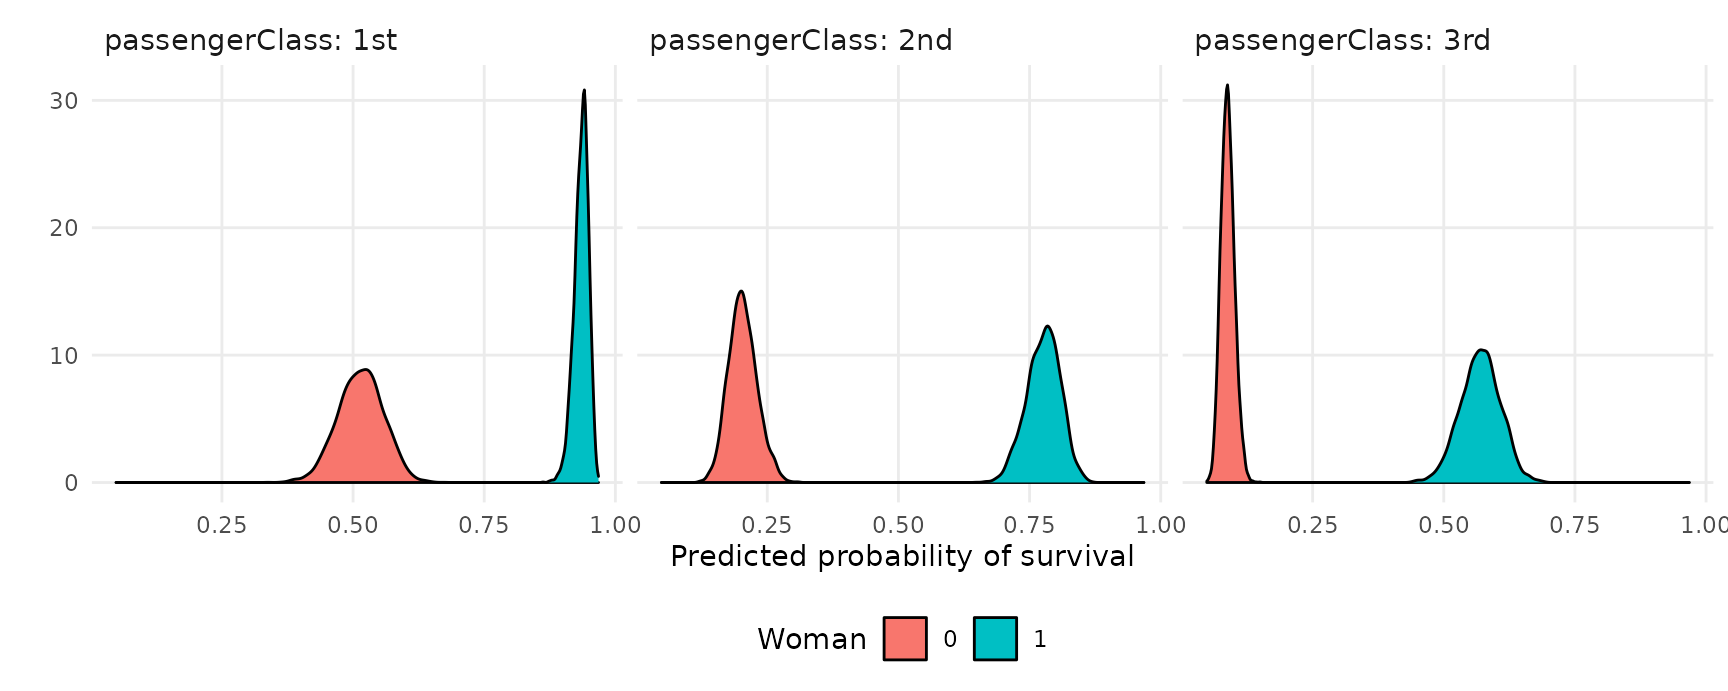
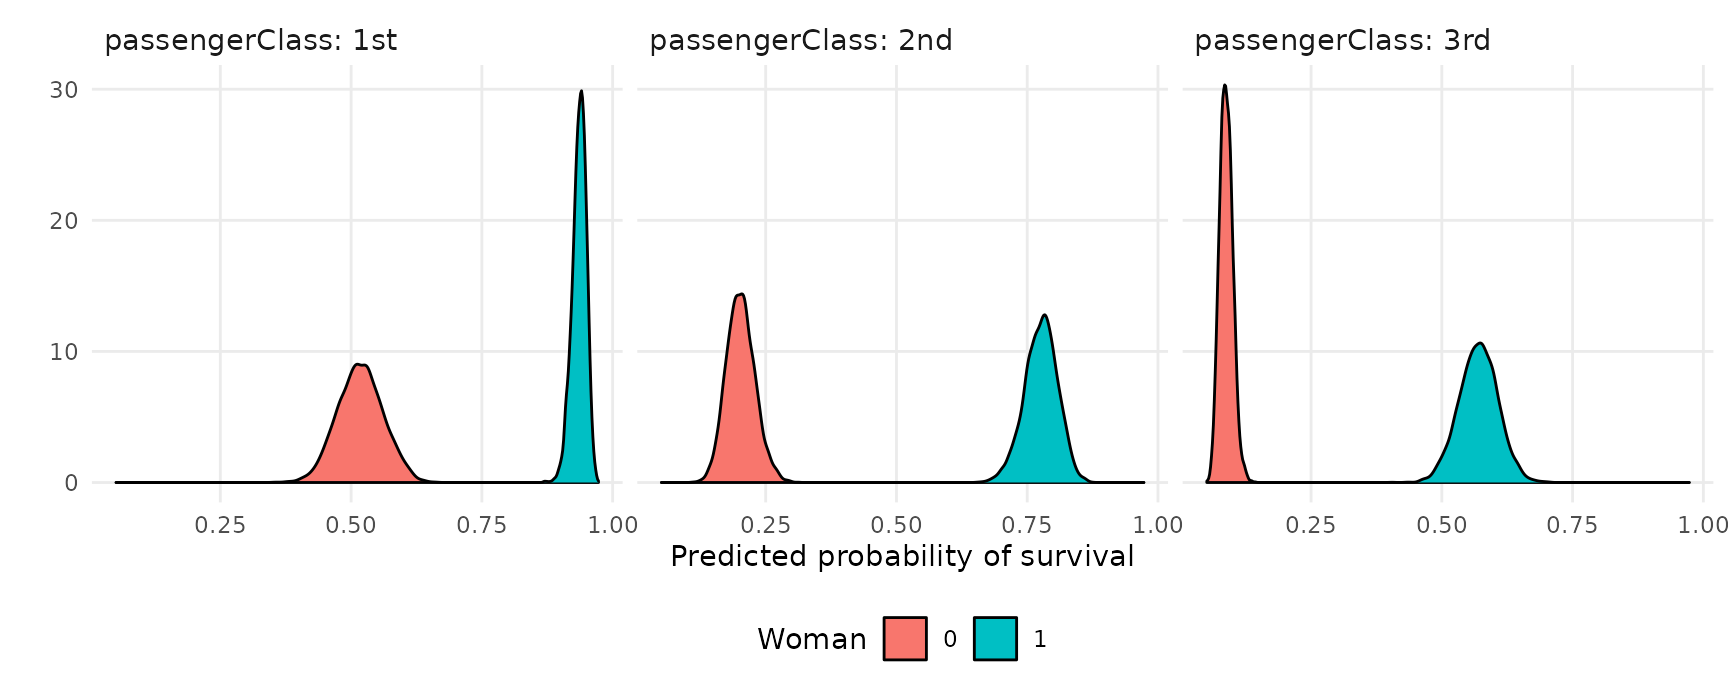
Built site for marginaleffects: 0.5.0.9000@774f5e7

diff --git a/articles/brms.html b/articles/brms.html
@@ -126,12 +126,12 @@
 <code class="sourceCode R"><span class="va">pred</span> <span class="op">&lt;-</span> <span class="fu"><a href="../reference/predictions.html">predictions</a></span><span class="op">(</span><span class="va">mod</span><span class="op">)</span>
 <span class="fu"><a href="https://rdrr.io/r/utils/head.html" class="external-link">head</a></span><span class="op">(</span><span class="va">pred</span><span class="op">)</span>
 <span class="co">#&gt;   rowid     type predicted  conf.low conf.high survived woman     age</span>
-<span class="co">#&gt; 1     1 response 0.9367472 0.9038666 0.9581670        1     1 29.0000</span>
-<span class="co">#&gt; 2     2 response 0.8482269 0.7384893 0.9185965        1     0  0.9167</span>
-<span class="co">#&gt; 3     3 response 0.9426790 0.8908972 0.9708225        0     1  2.0000</span>
-<span class="co">#&gt; 4     4 response 0.5135091 0.4273616 0.5943994        0     0 30.0000</span>
-<span class="co">#&gt; 5     5 response 0.9375434 0.9042560 0.9590230        0     1 25.0000</span>
-<span class="co">#&gt; 6     6 response 0.2730115 0.2010509 0.3538965        1     0 48.0000</span>
+<span class="co">#&gt; 1     1 response 0.9373636 0.9074305 0.9590451        1     1 29.0000</span>
+<span class="co">#&gt; 2     2 response 0.8513351 0.7440069 0.9195178        1     0  0.9167</span>
+<span class="co">#&gt; 3     3 response 0.9438323 0.8948214 0.9702921        0     1  2.0000</span>
+<span class="co">#&gt; 4     4 response 0.5157990 0.4325403 0.6014116        0     0 30.0000</span>
+<span class="co">#&gt; 5     5 response 0.9384555 0.9069748 0.9599175        0     1 25.0000</span>
+<span class="co">#&gt; 6     6 response 0.2738011 0.2029775 0.3545948        1     0 48.0000</span>
 <span class="co">#&gt;   passengerClass</span>
 <span class="co">#&gt; 1            1st</span>
 <span class="co">#&gt; 2            1st</span>
@@ -150,23 +150,23 @@
                                        passengerClass <span class="op">=</span> <span class="fu"><a href="https://rdrr.io/r/base/c.html" class="external-link">c</a></span><span class="op">(</span><span class="st">"1st"</span>, <span class="st">"2nd"</span>, <span class="st">"3rd"</span><span class="op">)</span><span class="op">)</span><span class="op">)</span>
 <span class="va">pred</span>
 <span class="co">#&gt;   rowid     type  predicted   conf.low conf.high      age woman passengerClass</span>
-<span class="co">#&gt; 1     1 response 0.51512667 0.42894659 0.5961970 29.88113     0            1st</span>
-<span class="co">#&gt; 2     2 response 0.20208884 0.15311957 0.2620328 29.88113     0            2nd</span>
-<span class="co">#&gt; 3     3 response 0.08771317 0.06486017 0.1156499 29.88113     0            3rd</span>
-<span class="co">#&gt; 4     4 response 0.93647218 0.90420838 0.9580905 29.88113     1            1st</span>
-<span class="co">#&gt; 5     5 response 0.77832513 0.71058663 0.8354429 29.88113     1            2nd</span>
-<span class="co">#&gt; 6     6 response 0.57018842 0.49315951 0.6408937 29.88113     1            3rd</span></code></pre></div>
+<span class="co">#&gt; 1     1 response 0.51750876 0.43421889 0.6030942 29.88113     0            1st</span>
+<span class="co">#&gt; 2     2 response 0.20130616 0.15160880 0.2591014 29.88113     0            2nd</span>
+<span class="co">#&gt; 3     3 response 0.08725871 0.06558882 0.1135204 29.88113     0            3rd</span>
+<span class="co">#&gt; 4     4 response 0.93715679 0.90723168 0.9589409 29.88113     1            1st</span>
+<span class="co">#&gt; 5     5 response 0.77755093 0.71128075 0.8341809 29.88113     1            2nd</span>
+<span class="co">#&gt; 6     6 response 0.57051109 0.49595149 0.6427941 29.88113     1            3rd</span></code></pre></div>
 <p>The <code>posteriordraws</code> function samples from the posterior distribution of the model, and produces a data frame with <code>drawid</code> and <code>draw</code> columns.</p>
 <div class="sourceCode" id="cb8"><pre class="downlit sourceCode r">
 <code class="sourceCode R"><span class="va">pred</span> <span class="op">&lt;-</span> <span class="fu"><a href="../reference/posteriordraws.html">posteriordraws</a></span><span class="op">(</span><span class="va">pred</span><span class="op">)</span>
 <span class="fu"><a href="https://rdrr.io/r/utils/head.html" class="external-link">head</a></span><span class="op">(</span><span class="va">pred</span><span class="op">)</span>
 <span class="co">#&gt;   drawid       draw rowid     type  predicted   conf.low conf.high      age</span>
-<span class="co">#&gt; 1      1 0.56649303     1 response 0.51512667 0.42894659 0.5961970 29.88113</span>
-<span class="co">#&gt; 2      1 0.21307571     2 response 0.20208884 0.15311957 0.2620328 29.88113</span>
-<span class="co">#&gt; 3      1 0.07410346     3 response 0.08771317 0.06486017 0.1156499 29.88113</span>
-<span class="co">#&gt; 4      1 0.94289310     4 response 0.93647218 0.90420838 0.9580905 29.88113</span>
-<span class="co">#&gt; 5      1 0.77381624     5 response 0.77832513 0.71058663 0.8354429 29.88113</span>
-<span class="co">#&gt; 6      1 0.50279268     6 response 0.57018842 0.49315951 0.6408937 29.88113</span>
+<span class="co">#&gt; 1      1 0.50604945     1 response 0.51750876 0.43421889 0.6030942 29.88113</span>
+<span class="co">#&gt; 2      1 0.21240139     2 response 0.20130616 0.15160880 0.2591014 29.88113</span>
+<span class="co">#&gt; 3      1 0.08835128     3 response 0.08725871 0.06558882 0.1135204 29.88113</span>
+<span class="co">#&gt; 4      1 0.93021539     4 response 0.93715679 0.90723168 0.9589409 29.88113</span>
+<span class="co">#&gt; 5      1 0.77821475     5 response 0.77755093 0.71128075 0.8341809 29.88113</span>
+<span class="co">#&gt; 6      1 0.55770907     6 response 0.57051109 0.49595149 0.6427941 29.88113</span>
 <span class="co">#&gt;   woman passengerClass</span>
 <span class="co">#&gt; 1     0            1st</span>
 <span class="co">#&gt; 2     0            2nd</span>
@@ -190,11 +190,11 @@
 <code class="sourceCode R"><span class="va">mfx</span> <span class="op">&lt;-</span> <span class="fu"><a href="../reference/marginaleffects.html">marginaleffects</a></span><span class="op">(</span><span class="va">mod</span><span class="op">)</span>
 <span class="fu"><a href="https://rdrr.io/r/base/summary.html" class="external-link">summary</a></span><span class="op">(</span><span class="va">mfx</span><span class="op">)</span>
 <span class="co">#&gt; Average marginal effects </span>
-<span class="co">#&gt;             Term  Contrast    Effect    2.5 %    97.5 %</span>
-<span class="co">#&gt; 1          woman     dY/dX  0.365643  0.33530  0.392128</span>
-<span class="co">#&gt; 2            age     dY/dX -0.005253 -0.00706 -0.003401</span>
-<span class="co">#&gt; 3 passengerClass 2nd - 1st -0.236426 -0.30476 -0.161454</span>
-<span class="co">#&gt; 4 passengerClass 3rd - 1st -0.387843 -0.45307 -0.319380</span>
+<span class="co">#&gt;             Term  Contrast   Effect     2.5 %    97.5 %</span>
+<span class="co">#&gt; 1          woman     dY/dX  0.36576  0.335927  0.392318</span>
+<span class="co">#&gt; 2            age     dY/dX -0.00529 -0.007202 -0.003427</span>
+<span class="co">#&gt; 3 passengerClass 2nd - 1st -0.23921 -0.309532 -0.164022</span>
+<span class="co">#&gt; 4 passengerClass 3rd - 1st -0.39002 -0.454233 -0.322181</span>
 <span class="co">#&gt; </span>
 <span class="co">#&gt; Model type:  brmsfit </span>
 <span class="co">#&gt; Prediction type:  response</span></code></pre></div>
@@ -203,16 +203,16 @@
 <code class="sourceCode R"><span class="fu"><a href="../reference/marginaleffects.html">marginaleffects</a></span><span class="op">(</span><span class="va">mod</span>,
                 newdata <span class="op">=</span> <span class="fu"><a href="../reference/datagrid.html">datagrid</a></span><span class="op">(</span>woman <span class="op">=</span> <span class="fl">1</span>,
                                    passengerClass <span class="op">=</span> <span class="st">"1st"</span><span class="op">)</span><span class="op">)</span>
-<span class="co">#&gt;   rowid     type           term  contrast          dydx     conf.low</span>
-<span class="co">#&gt; 1     1 response          woman     dY/dX  0.1558737596  0.114208993</span>
-<span class="co">#&gt; 2     1 response            age     dY/dX -0.0002442524 -0.001420361</span>
-<span class="co">#&gt; 3     1 response passengerClass 2nd - 1st -0.1575585571 -0.222073273</span>
-<span class="co">#&gt; 4     1 response passengerClass 3rd - 1st -0.3643176936 -0.438104273</span>
-<span class="co">#&gt;      conf.high      age woman passengerClass</span>
-<span class="co">#&gt; 1  0.214358925 29.88113     1            1st</span>
-<span class="co">#&gt; 2  0.000910621 29.88113     1            1st</span>
-<span class="co">#&gt; 3 -0.101288941 29.88113     1            1st</span>
-<span class="co">#&gt; 4 -0.296032176 29.88113     1            1st</span></code></pre></div>
+<span class="co">#&gt;   rowid     type           term  contrast         dydx     conf.low</span>
+<span class="co">#&gt; 1     1 response          woman     dY/dX  0.154488460  0.110715685</span>
+<span class="co">#&gt; 2     1 response            age     dY/dX -0.000239615 -0.001404361</span>
+<span class="co">#&gt; 3     1 response passengerClass 2nd - 1st -0.158998129 -0.222701696</span>
+<span class="co">#&gt; 4     1 response passengerClass 3rd - 1st -0.365256425 -0.434998548</span>
+<span class="co">#&gt;       conf.high      age woman passengerClass</span>
+<span class="co">#&gt; 1  0.2085978318 29.88113     1            1st</span>
+<span class="co">#&gt; 2  0.0008427259 29.88113     1            1st</span>
+<span class="co">#&gt; 3 -0.1043276841 29.88113     1            1st</span>
+<span class="co">#&gt; 4 -0.2946676269 29.88113     1            1st</span></code></pre></div>
 <p>Compute and plot conditional marginal effects:</p>
 <div class="sourceCode" id="cb12"><pre class="downlit sourceCode r">
 <code class="sourceCode R"><span class="fu"><a href="../reference/plot_cme.html">plot_cme</a></span><span class="op">(</span><span class="va">mod</span>, effect <span class="op">=</span> <span class="st">"woman"</span>, condition <span class="op">=</span> <span class="st">"age"</span><span class="op">)</span></code></pre></div>
@@ -226,19 +226,19 @@
 
 <span class="fu"><a href="https://rdrr.io/r/utils/head.html" class="external-link">head</a></span><span class="op">(</span><span class="va">draws</span><span class="op">)</span>
 <span class="co">#&gt;   drawid       draw rowid     type  term contrast       dydx   conf.low</span>
-<span class="co">#&gt; 1      1 0.13374665     1 response woman    dY/dX 0.15254642 0.11181526</span>
-<span class="co">#&gt; 2      1 0.11307770     2 response woman    dY/dX 0.13658362 0.03370668</span>
-<span class="co">#&gt; 3      1 0.05282119     3 response woman    dY/dX 0.05925745 0.02736931</span>
-<span class="co">#&gt; 4      1 0.62499559     4 response woman    dY/dX 0.65442855 0.56590771</span>
-<span class="co">#&gt; 5      1 0.12110532     5 response woman    dY/dX 0.13792790 0.09836087</span>
-<span class="co">#&gt; 6      1 0.76369094     6 response woman    dY/dX 0.70711207 0.58547388</span>
+<span class="co">#&gt; 1      1 0.16229428     1 response woman    dY/dX 0.15121666 0.10838177</span>
+<span class="co">#&gt; 2      1 0.17747559     2 response woman    dY/dX 0.13525915 0.03578961</span>
+<span class="co">#&gt; 3      1 0.06251937     3 response woman    dY/dX 0.05821175 0.02821566</span>
+<span class="co">#&gt; 4      1 0.64266081     4 response woman    dY/dX 0.65436348 0.56990054</span>
+<span class="co">#&gt; 5      1 0.14389258     5 response woman    dY/dX 0.13662470 0.09695062</span>
+<span class="co">#&gt; 6      1 0.65238080     6 response woman    dY/dX 0.70988109 0.58978701</span>
 <span class="co">#&gt;   conf.high survived woman     age passengerClass</span>
-<span class="co">#&gt; 1 0.2105889        1     1 29.0000            1st</span>
-<span class="co">#&gt; 2 0.3064597        1     0  0.9167            1st</span>
-<span class="co">#&gt; 3 0.1048323        0     1  2.0000            1st</span>
-<span class="co">#&gt; 4 0.7428412        0     0 30.0000            1st</span>
-<span class="co">#&gt; 5 0.1936671        0     1 25.0000            1st</span>
-<span class="co">#&gt; 6 0.8408017        1     0 48.0000            1st</span></code></pre></div>
+<span class="co">#&gt; 1 0.2041583        1     1 29.0000            1st</span>
+<span class="co">#&gt; 2 0.2996535        1     0  0.9167            1st</span>
+<span class="co">#&gt; 3 0.1014724        0     1  2.0000            1st</span>
+<span class="co">#&gt; 4 0.7424637        0     0 30.0000            1st</span>
+<span class="co">#&gt; 5 0.1872947        0     1 25.0000            1st</span>
+<span class="co">#&gt; 6 0.8451226        1     0 48.0000            1st</span></code></pre></div>
 <p>We can use this dataset to plot our results. For example, to plot the posterior density of the marginal effect of <code>age</code> when the <code>woman</code> variable is equal to 0 or 1:</p>
 <div class="sourceCode" id="cb14"><pre class="downlit sourceCode r">
 <code class="sourceCode R"><span class="va">mfx</span> <span class="op">&lt;-</span> <span class="fu"><a href="../reference/marginaleffects.html">marginaleffects</a></span><span class="op">(</span><span class="va">mod</span>,
@@ -324,8 +324,8 @@
                                           region <span class="op">=</span> <span class="st">"Middle East and North Africa"</span><span class="op">)</span><span class="op">)</span>
 <span class="va">mfx</span>
 <span class="co">#&gt;   rowid     type            term     contrast      dydx  conf.low conf.high</span>
-<span class="co">#&gt; 1     1 response  party_autonomy TRUE - FALSE 0.2514535 0.1675413  0.331406</span>
-<span class="co">#&gt; 2     1 response civil_liberties        dY/dX 0.8171434 0.6240089  1.007384</span>
+<span class="co">#&gt; 1     1 response  party_autonomy TRUE - FALSE 0.2497860 0.1679471 0.3337312</span>
+<span class="co">#&gt; 2     1 response civil_liberties        dY/dX 0.8179831 0.6269246 1.0072285</span>
 <span class="co">#&gt;   party_autonomy civil_liberties                       region</span>
 <span class="co">#&gt; 1           TRUE             0.5 Middle East and North Africa</span>
 <span class="co">#&gt; 2           TRUE             0.5 Middle East and North Africa</span></code></pre></div>
@@ -370,9 +370,9 @@
                        variables <span class="op">=</span> <span class="st">"civil_liberties"</span><span class="op">)</span>
 <span class="va">mfx</span>
 <span class="co">#&gt;   rowid     type            term      dydx  conf.low conf.high civil_liberties</span>
-<span class="co">#&gt; 1     1 response civil_liberties 0.4868427 0.3623617 0.6307536             0.2</span>
-<span class="co">#&gt; 2     2 response civil_liberties 0.8046072 0.6172004 1.0011851             0.5</span>
-<span class="co">#&gt; 3     3 response civil_liberties 0.8090552 0.6804464 0.9388900             0.8</span>
+<span class="co">#&gt; 1     1 response civil_liberties 0.4912452 0.3669788 0.6380839             0.2</span>
+<span class="co">#&gt; 2     2 response civil_liberties 0.8105852 0.6226945 0.9924862             0.5</span>
+<span class="co">#&gt; 3     3 response civil_liberties 0.8088033 0.6814467 0.9352848             0.8</span>
 <span class="co">#&gt;   party_autonomy                       region</span>
 <span class="co">#&gt; 1          FALSE Middle East and North Africa</span>
 <span class="co">#&gt; 2          FALSE Middle East and North Africa</span>
@@ -540,12 +540,12 @@
 
 <span class="fu"><a href="https://rdrr.io/r/utils/head.html" class="external-link">head</a></span><span class="op">(</span><span class="va">pred</span><span class="op">)</span>
 <span class="co">#&gt;   rowid     type group  predicted   conf.low  conf.high depvar  ic.gc  oc.gc</span>
-<span class="co">#&gt; 1     1 response    ec 0.06665201 0.04648685 0.09178832     gc 866.00 199.69</span>
-<span class="co">#&gt; 2     2 response    ec 0.07708801 0.05968841 0.09747962     gc 727.93 168.66</span>
-<span class="co">#&gt; 3     3 response    ec 0.10303290 0.06286926 0.16363190     gc 599.48 165.58</span>
-<span class="co">#&gt; 4     4 response    ec 0.06386711 0.04723958 0.08287172     er 835.17 180.88</span>
-<span class="co">#&gt; 5     5 response    ec 0.07498705 0.05834017 0.09436586     er 755.59 174.91</span>
-<span class="co">#&gt; 6     6 response    ec 0.07180544 0.04626570 0.10589183     gc 666.11 135.67</span></code></pre></div>
+<span class="co">#&gt; 1     1 response    ec 0.06732573 0.04684611 0.09313263     gc 866.00 199.69</span>
+<span class="co">#&gt; 2     2 response    ec 0.07781761 0.06073860 0.09733183     gc 727.93 168.66</span>
+<span class="co">#&gt; 3     3 response    ec 0.10437635 0.06445937 0.16163564     gc 599.48 165.58</span>
+<span class="co">#&gt; 4     4 response    ec 0.06431276 0.04738280 0.08356525     er 835.17 180.88</span>
+<span class="co">#&gt; 5     5 response    ec 0.07585076 0.05936943 0.09456498     er 755.59 174.91</span>
+<span class="co">#&gt; 6     6 response    ec 0.07165217 0.04573877 0.10480952     gc 666.11 135.67</span></code></pre></div>
 <p>Extract posterior draws and plot them:</p>
 <div class="sourceCode" id="cb34"><pre class="downlit sourceCode r">
 <code class="sourceCode R"><span class="va">draws</span> <span class="op">&lt;-</span> <span class="fu"><a href="../reference/posteriordraws.html">posteriordraws</a></span><span class="op">(</span><span class="va">pred</span><span class="op">)</span>
@@ -570,17 +570,17 @@
 <code class="sourceCode R"><span class="va">mfx</span> <span class="op">&lt;-</span> <span class="fu"><a href="../reference/marginaleffects.html">marginaleffects</a></span><span class="op">(</span><span class="va">mod</span><span class="op">)</span>
 <span class="fu"><a href="https://rdrr.io/r/base/summary.html" class="external-link">summary</a></span><span class="op">(</span><span class="va">mfx</span><span class="op">)</span>
 <span class="co">#&gt; Average marginal effects </span>
-<span class="co">#&gt;    Group  Term     Effect      2.5 %     97.5 %</span>
-<span class="co">#&gt; 1     ec ic.gc -1.798e-04 -4.129e-04  2.916e-05</span>
-<span class="co">#&gt; 2     ec oc.gc  4.748e-04 -4.929e-04  1.482e-03</span>
-<span class="co">#&gt; 3     er ic.gc  1.465e-05 -2.079e-04  2.342e-04</span>
-<span class="co">#&gt; 4     er oc.gc -1.018e-03 -2.039e-03 -2.704e-05</span>
-<span class="co">#&gt; 5     gc ic.gc  1.373e-05 -3.629e-04  4.033e-04</span>
-<span class="co">#&gt; 6     gc oc.gc  1.050e-03 -7.056e-04  2.775e-03</span>
-<span class="co">#&gt; 7     gr ic.gc  3.867e-05 -2.355e-04  3.214e-04</span>
-<span class="co">#&gt; 8     gr oc.gc  9.670e-05 -1.185e-03  1.370e-03</span>
-<span class="co">#&gt; 9     hp ic.gc  1.128e-04 -7.131e-05  3.049e-04</span>
-<span class="co">#&gt; 10    hp oc.gc -6.043e-04 -1.457e-03  2.162e-04</span>
+<span class="co">#&gt;    Group  Term     Effect      2.5 %    97.5 %</span>
+<span class="co">#&gt; 1     ec ic.gc -1.817e-04 -4.019e-04 2.416e-05</span>
+<span class="co">#&gt; 2     ec oc.gc  4.947e-04 -4.479e-04 1.463e-03</span>
+<span class="co">#&gt; 3     er ic.gc  1.737e-05 -2.177e-04 2.422e-04</span>
+<span class="co">#&gt; 4     er oc.gc -1.035e-03 -2.071e-03 1.520e-05</span>
+<span class="co">#&gt; 5     gc ic.gc  1.367e-05 -3.620e-04 4.077e-04</span>
+<span class="co">#&gt; 6     gc oc.gc  1.054e-03 -6.501e-04 2.790e-03</span>
+<span class="co">#&gt; 7     gr ic.gc  4.050e-05 -2.445e-04 3.146e-04</span>
+<span class="co">#&gt; 8     gr oc.gc  8.651e-05 -1.121e-03 1.325e-03</span>
+<span class="co">#&gt; 9     hp ic.gc  1.102e-04 -6.778e-05 3.016e-04</span>
+<span class="co">#&gt; 10    hp oc.gc -6.002e-04 -1.470e-03 2.114e-04</span>
 <span class="co">#&gt; </span>
 <span class="co">#&gt; Model type:  brmsfit </span>
 <span class="co">#&gt; Prediction type:  response</span></code></pre></div>

diff --git a/articles/multiple_imputation.html b/articles/multiple_imputation.html
@@ -121,8 +121,8 @@
 <span class="va">mod_imputation</span> <span class="op">&lt;-</span> <span class="fu"><a href="https://amices.org/mice/reference/pool.html" class="external-link">pool</a></span><span class="op">(</span><span class="va">mod_imputation</span><span class="op">)</span>
 
 <span class="fu"><a href="https://rdrr.io/r/base/summary.html" class="external-link">summary</a></span><span class="op">(</span><span class="va">mod_imputation</span><span class="op">)</span>
-<span class="co">#&gt;   term    estimate  std.error statistic       df      p.value</span>
-<span class="co">#&gt; 1   hp -0.06479819 0.01151898 -5.625342 27.49896 5.360172e-06</span></code></pre></div>
+<span class="co">#&gt;   term    estimate std.error statistic       df      p.value</span>
+<span class="co">#&gt; 1   hp -0.06515231 0.0117223 -5.557981 27.74731 6.235712e-06</span></code></pre></div>
 <p>We can compare this with what the model would have looked like without any missing data. The estimates are very similar (within one standard error) and the p-value for the imputed models is slightly higher than the full model (as expected).</p>
 <div class="sourceCode" id="cb5"><pre class="downlit sourceCode r">
 <code class="sourceCode R"><span class="va">mod_missing</span> <span class="op">&lt;-</span> <span class="fu"><a href="https://rdrr.io/r/stats/lm.html" class="external-link">lm</a></span><span class="op">(</span><span class="va">mpg</span> <span class="op">~</span> <span class="va">hp</span>, data <span class="op">=</span> <span class="va">dat</span><span class="op">)</span>
@@ -135,10 +135,7 @@
     <span class="st">"Complete"</span> <span class="op">=</span> <span class="va">mod_complete</span>,
     <span class="st">"Multiple Imputation"</span> <span class="op">=</span> <span class="va">mod_imputation</span><span class="op">)</span>
 
-<span class="fu"><a href="https://vincentarelbundock.github.io/modelsummary/reference/modelsummary.html" class="external-link">modelsummary</a></span><span class="op">(</span><span class="va">models</span><span class="op">)</span>
-<span class="co">#&gt; 'r2()' does not support models of class 'marginaleffects'.</span>
-<span class="co">#&gt; 'r2()' does not support models of class 'marginaleffects'.</span>
-<span class="co">#&gt; Objects of class 'try-error' are currently not supported.</span></code></pre></div>
+<span class="fu"><a href="https://vincentarelbundock.github.io/modelsummary/reference/modelsummary.html" class="external-link">modelsummary</a></span><span class="op">(</span><span class="va">models</span><span class="op">)</span></code></pre></div>
 <table class="table table" style="width: auto !important; margin-left: auto; margin-right: auto;">
 <thead><tr>
 <th style="text-align:left;">
@@ -218,7 +215,7 @@ R2
 0.602
 </td>
 <td style="text-align:center;">
-0.535
+0.529
 </td>
 </tr>
 <tr>
@@ -232,7 +229,7 @@ R2 Adj.
 0.589
 </td>
 <td style="text-align:center;">
-0.519
+0.513
 </td>
 </tr>
 <tr>
@@ -306,8 +303,8 @@ RMSE
 <span class="va">mod_imputation</span> <span class="op">&lt;-</span> <span class="fu"><a href="https://amices.org/mice/reference/pool.html" class="external-link">pool</a></span><span class="op">(</span><span class="va">mod_imputation</span><span class="op">)</span>
 
 <span class="fu"><a href="https://rdrr.io/r/base/summary.html" class="external-link">summary</a></span><span class="op">(</span><span class="va">mod_imputation</span><span class="op">)</span>
-<span class="co">#&gt;   term   estimate  std.error statistic       df      p.value</span>
-<span class="co">#&gt; 1  mpg 0.04845896 0.01058057  4.579993 21.16607 0.0001595869</span></code></pre></div>
+<span class="co">#&gt;   term   estimate std.error statistic       df      p.value</span>
+<span class="co">#&gt; 1  mpg 0.04979993 0.0101041  4.928684 25.13926 4.419334e-05</span></code></pre></div>
 <p>Again, we can compare this with what the model would have looked like without any missing data. The estimates, again, are very similar (within one standard error) and the p-value for the imputed models is slightly higher than the full model (as expected).</p>
 <div class="sourceCode" id="cb8"><pre class="downlit sourceCode r">
 <code class="sourceCode R"><span class="va">mod_missing</span> <span class="op">&lt;-</span> <span class="fu"><a href="https://rdrr.io/r/stats/glm.html" class="external-link">glm</a></span><span class="op">(</span><span class="va">am</span> <span class="op">~</span> <span class="va">mpg</span>, data <span class="op">=</span> <span class="va">dat</span>, family <span class="op">=</span> <span class="va">binomial</span><span class="op">)</span>
@@ -320,10 +317,7 @@ RMSE
     <span class="st">"Complete"</span> <span class="op">=</span> <span class="va">mod_complete</span>,
     <span class="st">"Multiple Imputation"</span> <span class="op">=</span> <span class="va">mod_imputation</span><span class="op">)</span>
 
-<span class="fu"><a href="https://vincentarelbundock.github.io/modelsummary/reference/modelsummary.html" class="external-link">modelsummary</a></span><span class="op">(</span><span class="va">models</span><span class="op">)</span>
-<span class="co">#&gt; 'r2()' does not support models of class 'marginaleffects'.</span>
-<span class="co">#&gt; 'r2()' does not support models of class 'marginaleffects'.</span>
-<span class="co">#&gt; Objects of class 'try-error' are currently not supported.</span></code></pre></div>
+<span class="fu"><a href="https://vincentarelbundock.github.io/modelsummary/reference/modelsummary.html" class="external-link">modelsummary</a></span><span class="op">(</span><span class="va">models</span><span class="op">)</span></code></pre></div>
 <table class="table table" style="width: auto !important; margin-left: auto; margin-right: auto;">
 <thead><tr>
 <th style="text-align:left;">
@@ -350,7 +344,7 @@ mpg
 0.046
 </td>
 <td style="text-align:center;">
-0.048
+0.050
 </td>
 </tr>
 <tr>
@@ -363,7 +357,7 @@ mpg
 (0.009)
 </td>
 <td style="text-align:center;box-shadow: 0px 1px">
-(0.011)
+(0.010)
 </td>
 </tr>
 <tr>
@@ -490,10 +484,7 @@ RMSE
     <span class="st">"Complete"</span> <span class="op">=</span> <span class="va">mod_complete</span>,
     <span class="st">"Multiple Imputation"</span> <span class="op">=</span> <span class="va">mod_imputation</span><span class="op">)</span>
 
-<span class="fu"><a href="https://vincentarelbundock.github.io/modelsummary/reference/modelsummary.html" class="external-link">modelsummary</a></span><span class="op">(</span><span class="va">models</span><span class="op">)</span>
-<span class="co">#&gt; 'r2()' does not support models of class 'marginaleffects'.</span>
-<span class="co">#&gt; 'r2()' does not support models of class 'marginaleffects'.</span>
-<span class="co">#&gt; Objects of class 'try-error' are currently not supported.</span></code></pre></div>
+<span class="fu"><a href="https://vincentarelbundock.github.io/modelsummary/reference/modelsummary.html" class="external-link">modelsummary</a></span><span class="op">(</span><span class="va">models</span><span class="op">)</span></code></pre></div>
 <table class="table table" style="width: auto !important; margin-left: auto; margin-right: auto;">
 <thead><tr>
 <th style="text-align:left;">

diff --git a/articles/modelsummary.html b/articles/modelsummary.html
@@ -94,8 +94,7 @@
 <span class="va">mod</span> <span class="op">&lt;-</span> <span class="fu"><a href="https://rdrr.io/r/stats/glm.html" class="external-link">glm</a></span><span class="op">(</span><span class="va">am</span> <span class="op">~</span> <span class="va">wt</span> <span class="op">+</span> <span class="va">drat</span>, family <span class="op">=</span> <span class="va">binomial</span>, data <span class="op">=</span> <span class="va">mtcars</span><span class="op">)</span>
 <span class="va">mfx</span> <span class="op">&lt;-</span> <span class="fu"><a href="../reference/marginaleffects.html">marginaleffects</a></span><span class="op">(</span><span class="va">mod</span><span class="op">)</span>
 
-<span class="fu"><a href="https://vincentarelbundock.github.io/modelsummary/reference/modelsummary.html" class="external-link">modelsummary</a></span><span class="op">(</span><span class="va">mfx</span><span class="op">)</span>
-<span class="co">#&gt; 'r2()' does not support models of class 'marginaleffects'.</span></code></pre></div>
+<span class="fu"><a href="https://vincentarelbundock.github.io/modelsummary/reference/modelsummary.html" class="external-link">modelsummary</a></span><span class="op">(</span><span class="va">mfx</span><span class="op">)</span></code></pre></div>
 <table class="table table" style="width: auto !important; margin-left: auto; margin-right: auto;">
 <thead><tr>
 <th style="text-align:left;">
@@ -179,8 +178,7 @@ RMSE
 </table>
 <p>The same results can be visualized with <code><a href="https://vincentarelbundock.github.io/modelsummary/reference/modelplot.html" class="external-link">modelplot()</a></code>:</p>
 <div class="sourceCode" id="cb2"><pre class="downlit sourceCode r">
-<code class="sourceCode R"><span class="fu"><a href="https://vincentarelbundock.github.io/modelsummary/reference/modelplot.html" class="external-link">modelplot</a></span><span class="op">(</span><span class="va">mfx</span><span class="op">)</span>
-<span class="co">#&gt; 'r2()' does not support models of class 'marginaleffects'.</span></code></pre></div>
+<code class="sourceCode R"><span class="fu"><a href="https://vincentarelbundock.github.io/modelsummary/reference/modelplot.html" class="external-link">modelplot</a></span><span class="op">(</span><span class="va">mfx</span><span class="op">)</span></code></pre></div>
 <p><img src="modelsummary_files/figure-html/unnamed-chunk-3-1.png" width="100%"></p>
 </div>
 <div class="section level2">
@@ -204,8 +202,7 @@ RMSE
 <span class="co">#&gt; 3  0.03571561  0.08593023</span></code></pre></div>
 <p>We can use the <code>group</code> argument of the <code>modelsummary</code> function to structure the table properly:</p>
 <div class="sourceCode" id="cb4"><pre class="downlit sourceCode r">
-<code class="sourceCode R"><span class="fu"><a href="https://vincentarelbundock.github.io/modelsummary/reference/modelsummary.html" class="external-link">modelsummary</a></span><span class="op">(</span><span class="va">mfx</span>, group <span class="op">=</span> <span class="va">term</span> <span class="op">+</span> <span class="va">contrast</span> <span class="op">~</span> <span class="va">model</span><span class="op">)</span>
-<span class="co">#&gt; 'r2()' does not support models of class 'marginaleffects'.</span></code></pre></div>
+<code class="sourceCode R"><span class="fu"><a href="https://vincentarelbundock.github.io/modelsummary/reference/modelsummary.html" class="external-link">modelsummary</a></span><span class="op">(</span><span class="va">mfx</span>, group <span class="op">=</span> <span class="va">term</span> <span class="op">+</span> <span class="va">contrast</span> <span class="op">~</span> <span class="va">model</span><span class="op">)</span></code></pre></div>
 <table class="table table" style="width: auto !important; margin-left: auto; margin-right: auto;">
 <thead><tr>
 <th style="text-align:left;">

diff --git a/articles/mlogit.html b/articles/mlogit.html
@@ -5,13 +5,13 @@
 <meta charset="utf-8">
 <meta http-equiv="X-UA-Compatible" content="IE=edge">
 <meta name="viewport" content="width=device-width, initial-scale=1.0">
-<title>Multinomial Logit and Discrete Choice Models  • marginaleffects</title>
+<title>Multinomial Logit and Discrete Choice Models • marginaleffects</title>
 <!-- jquery --><script src="https://cdnjs.cloudflare.com/ajax/libs/jquery/3.4.1/jquery.min.js" integrity="sha256-CSXorXvZcTkaix6Yvo6HppcZGetbYMGWSFlBw8HfCJo=" crossorigin="anonymous"></script><!-- Bootstrap --><link href="https://cdnjs.cloudflare.com/ajax/libs/bootswatch/3.4.0/readable/bootstrap.min.css" rel="stylesheet" crossorigin="anonymous">
 <script src="https://cdnjs.cloudflare.com/ajax/libs/twitter-bootstrap/3.4.1/js/bootstrap.min.js" integrity="sha256-nuL8/2cJ5NDSSwnKD8VqreErSWHtnEP9E7AySL+1ev4=" crossorigin="anonymous"></script><!-- bootstrap-toc --><link rel="stylesheet" href="../bootstrap-toc.css">
 <script src="../bootstrap-toc.js"></script><!-- Font Awesome icons --><link rel="stylesheet" href="https://cdnjs.cloudflare.com/ajax/libs/font-awesome/5.12.1/css/all.min.css" integrity="sha256-mmgLkCYLUQbXn0B1SRqzHar6dCnv9oZFPEC1g1cwlkk=" crossorigin="anonymous">
 <link rel="stylesheet" href="https://cdnjs.cloudflare.com/ajax/libs/font-awesome/5.12.1/css/v4-shims.min.css" integrity="sha256-wZjR52fzng1pJHwx4aV2AO3yyTOXrcDW7jBpJtTwVxw=" crossorigin="anonymous">
 <!-- clipboard.js --><script src="https://cdnjs.cloudflare.com/ajax/libs/clipboard.js/2.0.6/clipboard.min.js" integrity="sha256-inc5kl9MA1hkeYUt+EC3BhlIgyp/2jDIyBLS6k3UxPI=" crossorigin="anonymous"></script><!-- headroom.js --><script src="https://cdnjs.cloudflare.com/ajax/libs/headroom/0.11.0/headroom.min.js" integrity="sha256-AsUX4SJE1+yuDu5+mAVzJbuYNPHj/WroHuZ8Ir/CkE0=" crossorigin="anonymous"></script><script src="https://cdnjs.cloudflare.com/ajax/libs/headroom/0.11.0/jQuery.headroom.min.js" integrity="sha256-ZX/yNShbjqsohH1k95liqY9Gd8uOiE1S4vZc+9KQ1K4=" crossorigin="anonymous"></script><!-- pkgdown --><link href="../pkgdown.css" rel="stylesheet">
-<script src="../pkgdown.js"></script><meta property="og:title" content="Multinomial Logit and Discrete Choice Models ">
+<script src="../pkgdown.js"></script><meta property="og:title" content="Multinomial Logit and Discrete Choice Models">
 <meta property="og:description" content="marginaleffects">
 <!-- mathjax --><script src="https://cdnjs.cloudflare.com/ajax/libs/mathjax/2.7.5/MathJax.js" integrity="sha256-nvJJv9wWKEm88qvoQl9ekL2J+k/RWIsaSScxxlsrv8k=" crossorigin="anonymous"></script><script src="https://cdnjs.cloudflare.com/ajax/libs/mathjax/2.7.5/config/TeX-AMS-MML_HTMLorMML.js" integrity="sha256-84DKXVJXs0/F8OTMzX4UR909+jtl4G7SPypPavF+GfA=" crossorigin="anonymous"></script><!--[if lt IE 9]>
 <script src="https://oss.maxcdn.com/html5shiv/3.7.3/html5shiv.min.js"></script>

diff --git a/articles/mfx03_mfx.html b/articles/mfx03_mfx.html
@@ -379,11 +379,11 @@
     <span class="fu"><a href="https://dplyr.tidyverse.org/reference/mutate.html" class="external-link">mutate</a></span><span class="op">(</span>truth <span class="op">=</span> <span class="fl">1</span> <span class="op">+</span> <span class="fl">4</span> <span class="op">*</span> <span class="va">x</span><span class="op">)</span> <span class="op"><a href="https://magrittr.tidyverse.org/reference/pipe.html" class="external-link">%&gt;%</a></span>
     <span class="fu"><a href="https://dplyr.tidyverse.org/reference/select.html" class="external-link">select</a></span><span class="op">(</span><span class="va">dydx</span>, <span class="va">truth</span><span class="op">)</span>
 <span class="co">#&gt;        dydx truth</span>
-<span class="co">#&gt; 1 -7.003983    -7</span>
-<span class="co">#&gt; 2 -3.002196    -3</span>
-<span class="co">#&gt; 3  0.999590     1</span>
-<span class="co">#&gt; 4  5.001376     5</span>
-<span class="co">#&gt; 5  9.003163     9</span></code></pre></div>
+<span class="co">#&gt; 1 -6.986572    -7</span>
+<span class="co">#&gt; 2 -2.991598    -3</span>
+<span class="co">#&gt; 3  1.003376     1</span>
+<span class="co">#&gt; 4  4.998350     5</span>
+<span class="co">#&gt; 5  8.993324     9</span></code></pre></div>
 <p>We can plot conditional adjusted predictions with <code>plot_cap</code> function:</p>
 <div class="sourceCode" id="cb16"><pre class="downlit sourceCode r">
 <code class="sourceCode R"><span class="fu"><a href="../reference/plot_cap.html">plot_cap</a></span><span class="op">(</span><span class="va">mod</span>, condition <span class="op">=</span> <span class="st">"x"</span><span class="op">)</span></code></pre></div>

diff --git a/articles/gformula.html b/articles/gformula.html
@@ -284,7 +284,7 @@
     check.names <span class="op">=</span> <span class="cn">FALSE</span><span class="op">)</span>
 <span class="va">bootstrap</span></code></pre></div>
 <pre><code><span class="co">##                            estimate std.error conf.low conf.high</span>
-<span class="co">## 1 Treatment - No Treatment 3.517374 0.5061459 2.525346  4.509402</span></code></pre>
+<span class="co">## 1 Treatment - No Treatment 3.517374 0.4970186 2.543236  4.491513</span></code></pre>
 <p>The results are close to those that we obtained with <code><a href="../reference/comparisons.html">comparisons()</a></code>, but the confidence interval differs slightly because of the difference between bootstraping and the delta method.</p>
 <div class="sourceCode" id="cb21"><pre class="downlit sourceCode r">
 <code class="sourceCode R"><span class="fu"><a href="https://rdrr.io/r/base/summary.html" class="external-link">summary</a></span><span class="op">(</span><span class="va">cmp</span><span class="op">)</span></code></pre></div>

diff --git a/articles/index.html b/articles/index.html
@@ -78,7 +78,7 @@
         <dd>
         </dd><dt><a href="mfx06_supported_models.html">Supported Models</a></dt>
         <dd>
-        </dd><dt><a href="mlogit.html">Multinomial Logit and Discrete Choice Models </a></dt>
+        </dd><dt><a href="mlogit.html">Multinomial Logit and Discrete Choice Models</a></dt>
         <dd>
         </dd><dt><a href="modelsummary.html">Tables and Plots</a></dt>
         <dd>
